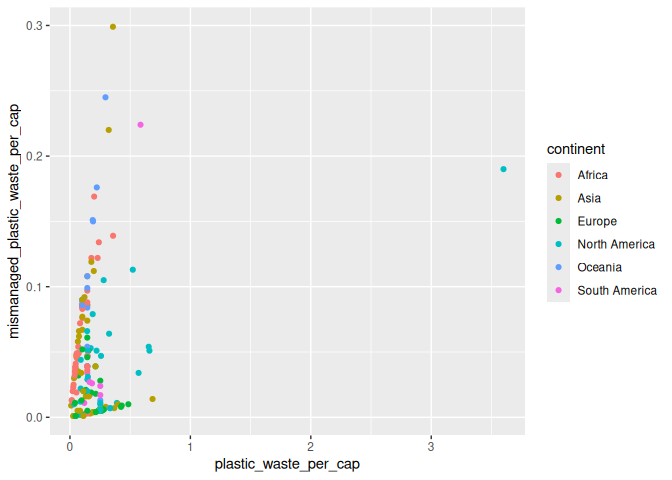
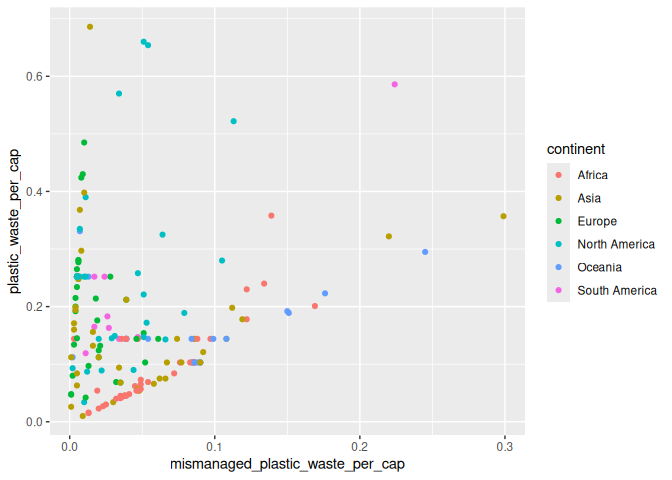
finished the Exs

diff --git a/dsbox/labs/lab-02.md b/dsbox/labs/lab-02.md
@@ -144,14 +144,13 @@ outliers could be T&T observed earlier in the histogram.
 ### Exercise 6
 
 ``` r
-ggplot(data = plastic_waste, mapping = aes(x = plastic_waste_per_cap,
-                                           y = mismanaged_plastic_waste_per_cap,
+plastic_waste %>% 
+  filter(plastic_waste_per_cap < 3) %>% 
+ggplot(mapping = aes(x = mismanaged_plastic_waste_per_cap,
+                                           y = plastic_waste_per_cap,
                                            colour = continent)) +
   geom_point()
 ```
-
-    ## Warning: Removed 51 rows containing missing values or values outside the scale range
-    ## (`geom_point()`).
 
 ![](lab-02_files/figure-gfm/plastic-waste-mismanaged-continent-1.png)<!-- -->
 Europe has the smallest waste to mismanaged waste per capita ratio.
@@ -161,21 +160,20 @@ similar pattern as Africa.
 ### Exercise 7
 
 ``` r
-ggplot(plastic_waste, aes(x = plastic_waste_per_cap,
-                          y = total_pop,
-                          colour = continent)) +
+plastic_waste %>% 
+ filter(plastic_waste_per_cap < 3, total_pop < 5e+08) %>%
+ggplot(aes(x = total_pop,
+           y = plastic_waste_per_cap,
+           colour = continent)) +
   geom_point()
 ```
-
-    ## Warning: Removed 61 rows containing missing values or values outside the scale range
-    ## (`geom_point()`).
 
 ![](lab-02_files/figure-gfm/plastic-waste-population-total-1.png)<!-- -->
 
 ``` r
 # plastic waste per cap vs coastal population
-ggplot(plastic_waste, aes(plastic_waste_per_cap,
-                          coastal_pop,
+ggplot(plastic_waste, aes(x = coastal_pop,
+                          y = plastic_waste_per_cap,
                           colour = continent)) +
   geom_point()
 ```
@@ -184,11 +182,41 @@ ggplot(plastic_waste, aes(plastic_waste_per_cap,
     ## (`geom_point()`).
 
 ![](lab-02_files/figure-gfm/plastic-waste-population-coastal-1.png)<!-- -->
+It appears that there is a stronger linear relationship between coastal
+population and the plastic waste per capita than between the total
+population and the same variable. Though we see that the population of
+Asia contributes to this relationship more than in North America.
 
 ### Exercise 8
 
-Remove this text, and add your answer for Exercise 8 here.
-
 ``` r
-# insert code here
+plastic_waste %>% 
+  filter(plastic_waste_per_cap < 3) %>% 
+  mutate(coastal_pop_prop = coastal_pop/total_pop) %>% 
+  
+ggplot(plastic_waste, mapping = aes(x = coastal_pop_prop,
+                                    y = plastic_waste_per_cap,
+                                    )) +
+  geom_point(aes(colour = continent)) +
+  geom_smooth(method = "loess") +
+  labs(
+    title = "Plastic waste vs coastal population proportion",
+    subtitle = "by continent",
+    x = "Coastal population proportion (coastal/total population",
+    y = "Plastic waste per capita"
+  )
 ```
+
+    ## `geom_smooth()` using formula = 'y ~ x'
+
+    ## Warning: Removed 10 rows containing non-finite outside the scale range
+    ## (`stat_smooth()`).
+
+    ## Warning: Removed 10 rows containing missing values or values outside the scale range
+    ## (`geom_point()`).
+
+![](lab-02_files/figure-gfm/recreate-viz-1.png)<!-- --> Interpretation:
+The loess smooth line follows an increase trend that isn’t exactly
+linear. There seems to be a proportional increase with the plastic waste
+per capita against the proportion of coastal residents to the total
+population.
